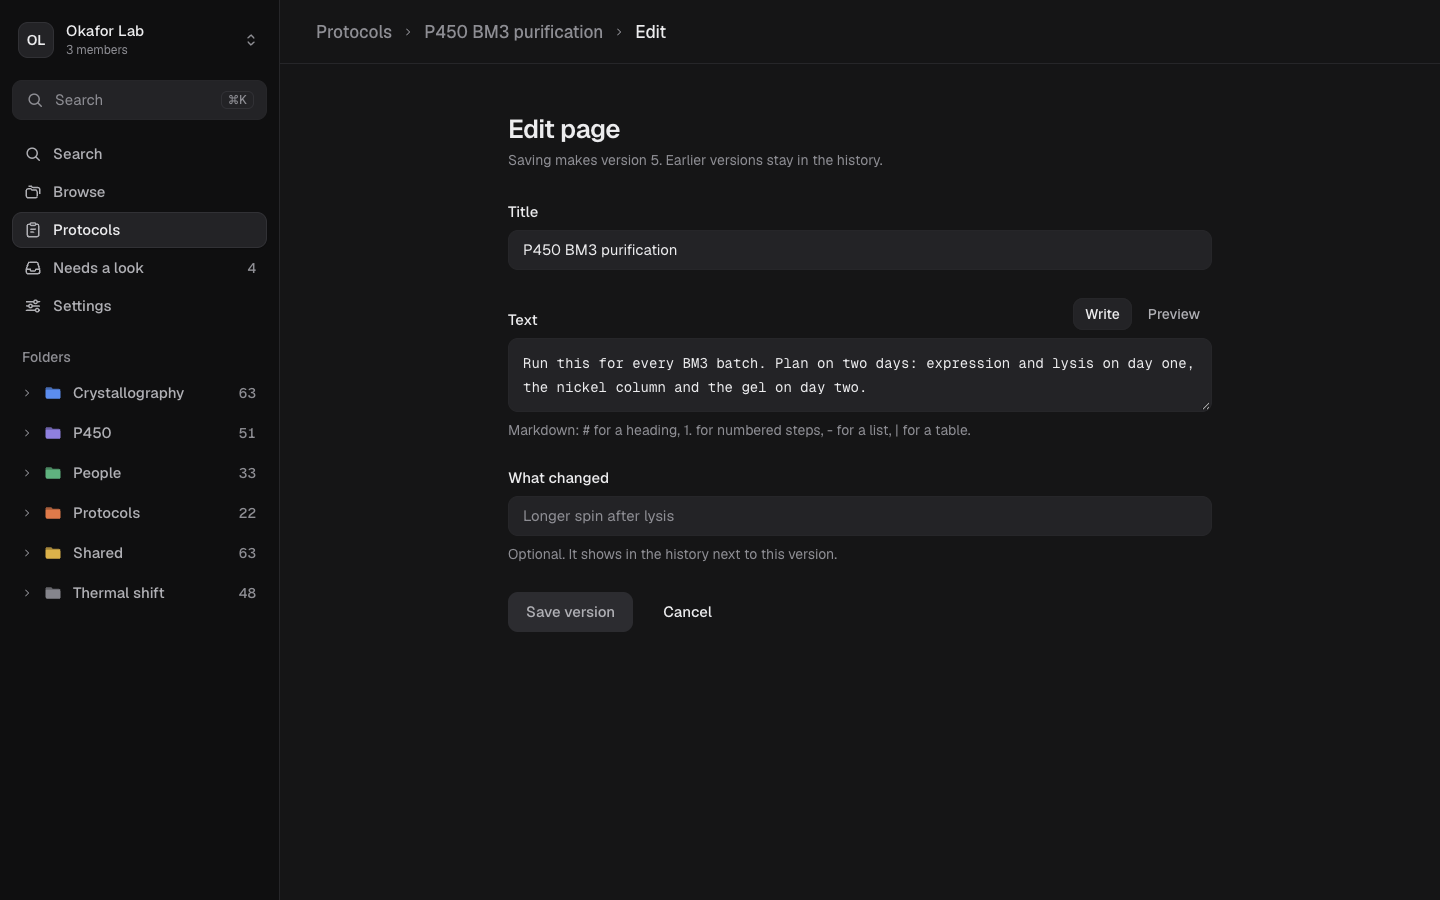
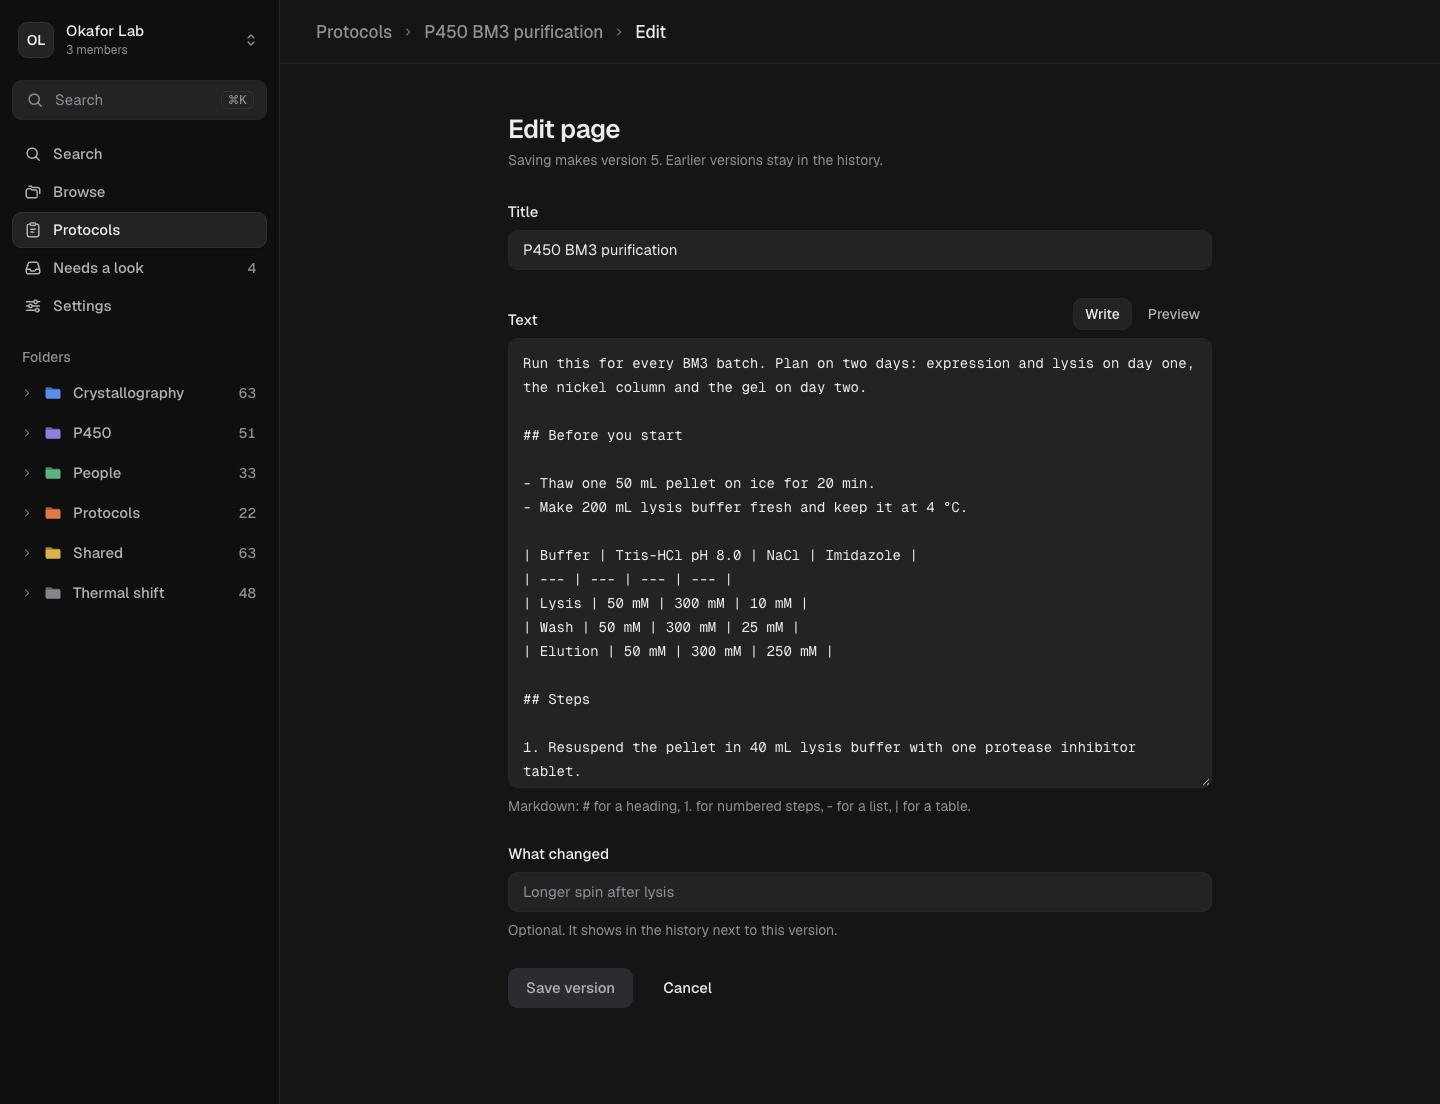
note protocols in design doc, retake screenshots

diff --git a/docs/design.md b/docs/design.md
@@ -80,3 +80,11 @@ See `.env.example` at the repo root. The web app reads `apps/web/.env.local`, an
 `folder_tree(p_lab_id)` and `folder_files(p_lab_id, p_path, p_limit, p_offset)` (migration 0005) are `security invoker`, so RLS applies. Folder paths are relative to the source root (`""`, `P450`, `P450/batch3`) and only live, indexed locations count. The sidebar tree and the browse page both read `folder_tree`; `/api/browse` pages through `folder_files` 100 rows at a time.
 
 Folder tints come from `apps/web/src/lib/tints.ts`: a top-level folder's path hashes to one of six muted tints, and its subfolders use the lighter shade of the same tint.
+
+## Protocols
+
+Migration 0006 adds `protocols`, immutable `protocol_versions` and `protocol_files`. Members write through `create_protocol`, `save_protocol`, `link_protocol_file` and `unlink_protocol_file`; admins through `archive_protocol`. All are `security invoker`, and triggers do the checks: a version names the one it was edited from (`based_on`), must start from the current one or fail with `BL101`, and gets the next number. `unique (protocol_id, based_on)` keeps history a line even if two saves race. Triggers also write every create, save, archive, link and unlink to `audit_log`.
+
+`file_text` (`security definer`, membership checked) hands a page the extracted text of a file it starts from, since `extractions` are closed to members. `search_protocols` matches current titles and bodies with the same prefix query as file search; `/api/search` returns its hits as `protocols` beside the files, and none when a file filter is set.
+
+Pages render Markdown with react-markdown and remark-gfm. Raw HTML stays text, and images render as links.
